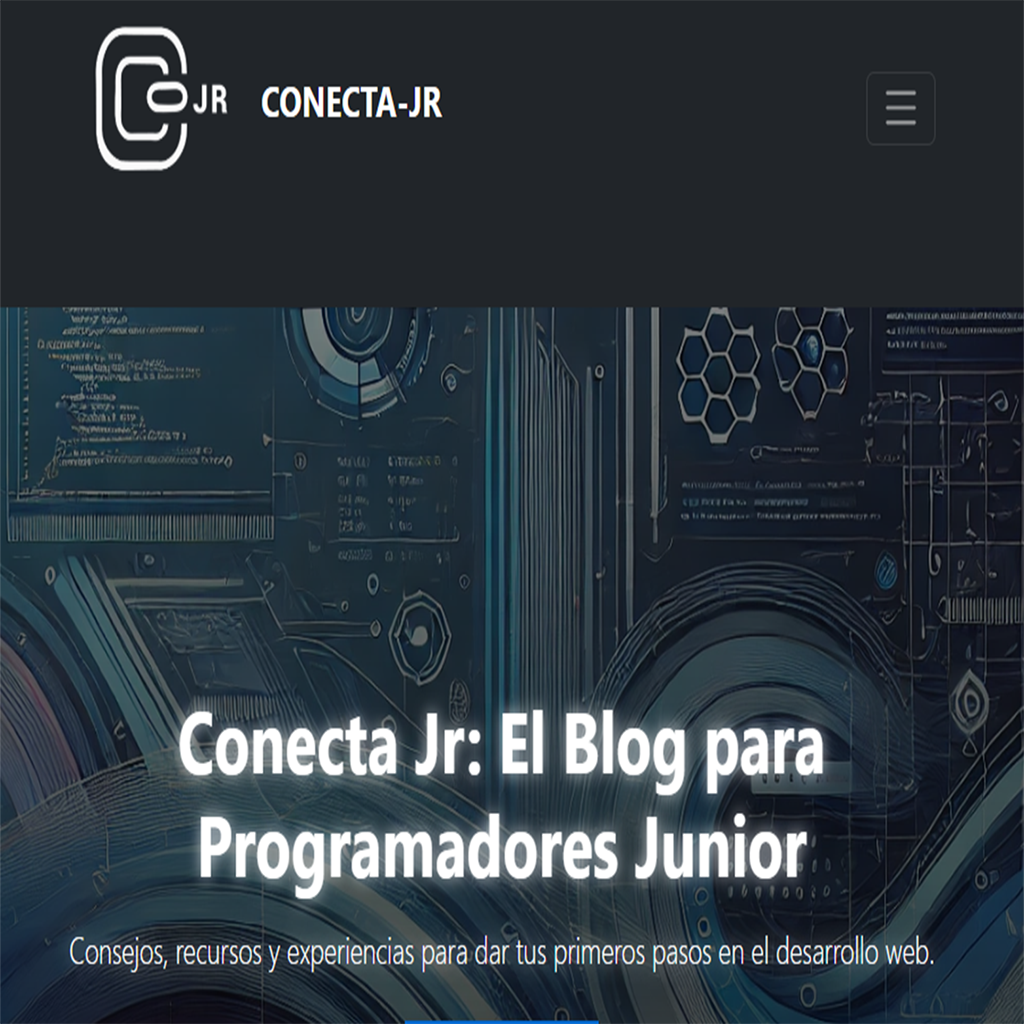
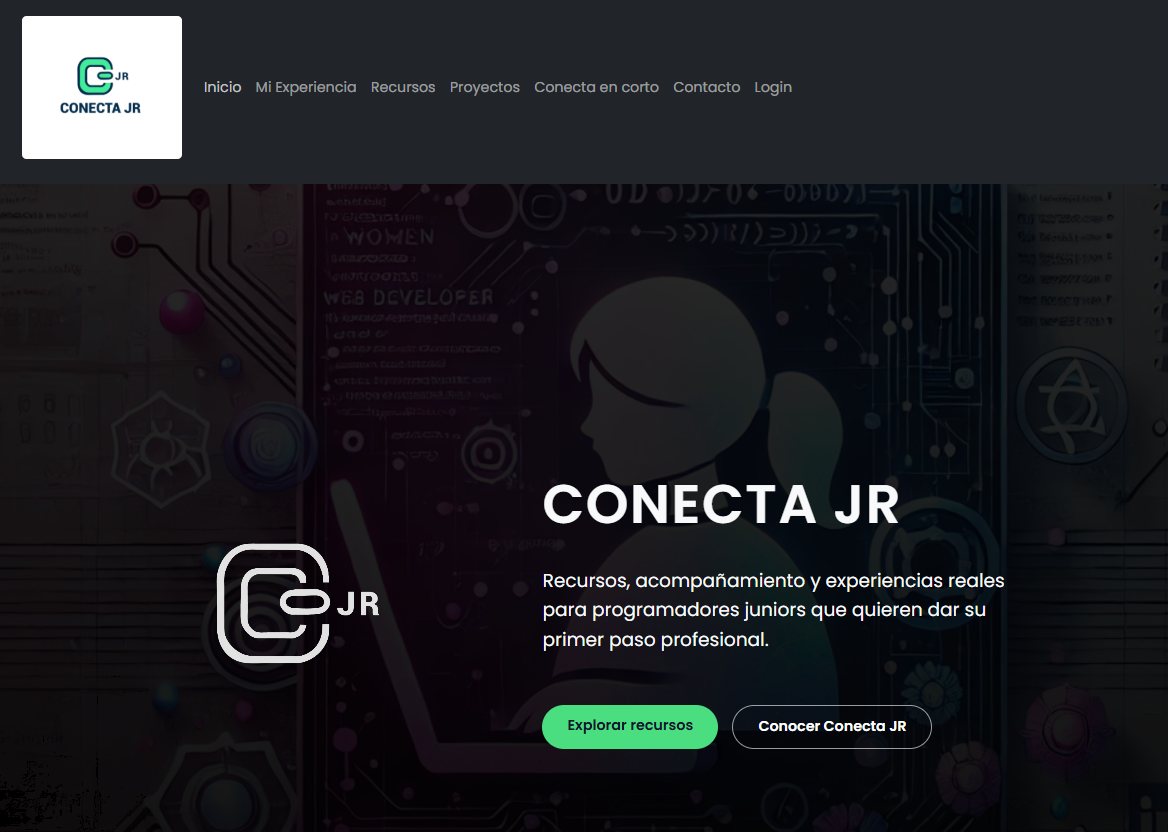
feat: hero section optimization

diff --git a/src/components/HeroBanner/HeroBanner.jsx b/src/components/HeroBanner/HeroBanner.jsx
@@ -1,78 +1,62 @@
-import React, { useState, useEffect, useRef } from "react";
-import { motion, animate } from "framer-motion";
+import React from "react";
+import { motion } from "framer-motion";
+import { Link } from "react-router-dom";
 import "../../Styles/styles.scss";
 import logo from "../../../public/images/logo-Conecta-jr-icono.png";
 
 const HeroBanner = () => {
-  const [position, setPosition] = useState({ x: 0, y: 0 });
-  const [isMoving, setIsMoving] = useState(true);
-  const containerRef = useRef(null);
-
-  useEffect(() => {
-    if (!isMoving) return;
-
-    const moveLogo = () => {
-      const container = containerRef.current;
-      if (!container) return;
-
-      const maxX = container.offsetWidth - 80; // 80px ancho del logo
-      const maxY = container.offsetHeight - 80;
-
-      const newX = Math.random() * maxX;
-      const newY = Math.random() * maxY;
-
-      setPosition({ x: newX, y: newY });
-    };
-
-    const interval = setInterval(moveLogo, 2000); // Cambia de posición cada 2s
-    return () => clearInterval(interval);
-  }, [isMoving]);
-
   return (
     <motion.section
-      className="hero-banner text-white text-center"
-      initial={{ opacity: 0, scale: 1.1 }}
-      animate={{ opacity: 1, scale: 1 }}
-      transition={{ duration: 1 }}
-      style={{ position: "relative", overflow: "hidden" }}
-      ref={containerRef}
+      className="hero-banner"
+      initial={{ opacity: 0 }}
+      animate={{ opacity: 1 }}
+      transition={{ duration: 0.8 }}
     >
-      <div className="overlay" />
-      <div className="container hero-content">
-        <motion.h1
-          className="display-4 fw-bold mb-3"
-          initial={{ opacity: 0, y: -50 }}
-          animate={{ opacity: 1, y: 0 }}
-          transition={{ duration: 0.8 }}
+      <div className="hero-content">
+        {/* LOGO IZQUIERDA */}
+        <motion.div
+          className="hero-logo"
+          initial={{ opacity: 0, x: -40 }}
+          animate={{ opacity: 1, x: 0 }}
+          transition={{ duration: 0.6 }}
         >
-          Bienvenidos a <span className="highlight">CONECTA JR</span>
-        </motion.h1>
+          <img src={logo} alt="Logo Conecta JR" />
+        </motion.div>
 
-        <motion.p
-          className="lead mb-4"
-          initial={{ opacity: 0, y: 40 }}
-          animate={{ opacity: 1, y: 0 }}
-          transition={{ duration: 0.8, delay: 0.2 }}
-        >
-          Consejos, recursos y experiencias para dar tus primeros pasos en el desarrollo web.
-        </motion.p>
+        {/* TEXTO DERECHA */}
+        <div className="hero-text">
+          <motion.h1
+            initial={{ opacity: 0, y: -20 }}
+            animate={{ opacity: 1, y: 0 }}
+            transition={{ duration: 0.6 }}
+          >
+            CONECTA JR
+          </motion.h1>
 
-        {/* aca el Logo que se mueve libremente */}
-        <motion.img
-          src={logo}
-          alt="Logo Conecta Jr"
-          className="animated-logo"
-          animate={position}
-          transition={{ type: "spring", stiffness: 50, damping: 20 }}
-          style={{
-            width: "80px",
-            position: "absolute",
-            top: 0,
-            left: 0,
-            cursor: "pointer",
-          }}
-          onClick={() => setIsMoving(!isMoving)}
-        />
+          <motion.p
+            initial={{ opacity: 0, y: 20 }}
+            animate={{ opacity: 1, y: 0 }}
+            transition={{ duration: 0.6, delay: 0.1 }}
+          >
+            Recursos, acompañamiento y experiencias reales para programadores
+            juniors que quieren dar su primer paso profesional.
+          </motion.p>
+
+          <motion.div
+            className="hero-cta"
+            initial={{ opacity: 0, y: 20 }}
+            animate={{ opacity: 1, y: 0 }}
+            transition={{ duration: 0.6, delay: 0.2 }}
+          >
+            <Link to="/consejos" className="primary">
+              Explorar recursos
+            </Link>
+
+            <Link to="/mi-experiencia" className="secondary">
+              Mi Experiencia
+            </Link>
+          </motion.div>
+        </div>
       </div>
     </motion.section>
   );

diff --git a/src/Styles/styles.scss b/src/Styles/styles.scss
@@ -83,25 +83,161 @@ main {
 }
 
 
-// ===========================
-// Hero Banner
-// ===========================
+/* =========================
+   HERO BANNER
+========================= */
 
 .hero-banner {
-  background: linear-gradient(to bottom, rgba(0, 0, 0, 0.5), rgba(0, 0, 0, 0.8)),
-              url('/images/banner.png') no-repeat center center;
+  background:
+    linear-gradient(
+      to bottom,
+      rgba(0, 0, 0, 0.6),
+      rgba(0, 0, 0, 0.85)
+    ),
+    url('/images/banner.png') no-repeat center center;
+
   background-size: cover;
+  background-blend-mode: multiply;
+  background-position: 70% center;
   min-height: 100vh;
+  padding: 6rem 3rem;
+
   display: flex;
   align-items: center;
   justify-content: center;
+
   text-align: center;
   color: $text-light;
+  position: relative;
+}
 
-  h1, p {
-    animation: glow 1.5s ease-in-out infinite;
+.hero-banner::after {
+  content: "";
+  position: absolute;
+  inset: 0;
+  background:  rgba(0, 0, 0, 0.6);
+  z-index: 1;
+}
+
+
+/* =========================
+   LOGO FIJO (marca)
+========================= */
+
+.hero-logo {
+   display: flex;
+  align-items: center;
+  justify-content: center;
+}
+
+.hero-logo img {
+  max-width: 260px; 
+  opacity: 0.9;     
+}
+
+/* =========================
+   CONTENIDO
+========================= */
+
+.hero-content {
+  max-width: 1200px;
+  width: 100%;
+
+  display: grid;
+  grid-template-columns: 420px 1fr;
+  gap: 4rem;
+  align-items: center;
+
+  position: relative;
+  z-index: 2;
+}
+
+.hero-text {
+  max-width: 560px;
+  display: flex;
+  flex-direction: column;
+  gap: 1.5rem;
+  text-align: left;
+}
+
+.hero-text h1 {
+  letter-spacing: 0.03em;
+  font-size: clamp(2.5rem, 5vw, 3.8rem);
+  font-weight: 800;
+}
+
+.hero-text p {
+  line-height: 1.6;
+  font-size: clamp(1.1rem, 2.5vw, 1.3rem);
+  opacity: 0.9;
+  max-width: 560px;
+}
+
+
+/* =========================
+   CTA
+========================= */
+
+.hero-cta {
+  display: flex;
+  gap: 1rem;
+  margin-top: 1rem;
+}
+
+.hero-cta a {
+ padding: 0.75rem 1.75rem;
+  border-radius: 999px;
+  font-weight: 600;
+  text-decoration: none;
+  transition: all 0.25s ease;
+}
+
+/* CTA principal */
+.hero-cta .primary {
+  background: #4ade80;
+  color: #0f172a;
+}
+
+.hero-cta .primary:hover {
+  transform: translateY(-2px);
+  box-shadow: 0 10px 25px rgba(66, 235, 153, 0.35);
+}
+
+/* CTA secundario */
+.hero-cta .secondary {
+  border: 1px solid rgba(255,255,255,0.6);
+  color: white;
+}
+
+.hero-cta .secondary:hover {
+   background: rgba(255,255,255,0.15);
+}
+
+/* =========================
+   RESPONSIVE
+========================= */
+
+@media (max-width: 768px) {
+  .hero-content {
+    grid-template-columns: 1fr;
+    text-align: center;
+  }
+
+  .hero-logo img {
+    max-width: 220px;
+    margin: 0 auto;
+  }
+
+  .hero-text {
+    align-items: center;
+  }
+
+  .hero-cta {
+    justify-content: center;
   }
 }
+
+
 
 // ===========================
 // Sistema de Cards

diff --git a/src/components/Nabvar/Navbar.jsx b/src/components/Nabvar/Navbar.jsx
@@ -20,7 +20,7 @@ function CustomNavbar() {
           <Nav className="me-auto">
             <Nav.Link as={Link} to="/">Inicio</Nav.Link>
             <Nav.Link as={Link} to="/mi-experiencia">Mi Experiencia</Nav.Link>
-            <Nav.Link as={Link} to="/consejos">Consejos</Nav.Link>
+            <Nav.Link as={Link} to="/consejos">Recursos</Nav.Link>
             <Nav.Link as={Link} to="/proyectos">Proyectos</Nav.Link>
             <Nav.Link as={Link} to="/conecta-en-corto">Conecta en corto</Nav.Link>
             <Nav.Link as={Link} to="/contacto">Contacto</Nav.Link>

diff --git a/src/Pages/MiExperiencia.jsx b/src/Pages/MiExperiencia.jsx
@@ -18,6 +18,7 @@ function MiExperiencia() {
             aplicaciones completas, escalables y bien estructuradas, aplicando
             buenas prácticas de la industria.
           </p>
+          <p>Creo en el aprendizaje acompañado, por eso creé CONECTA JR, un espacio que ayuda a desarrolladores junior con recursos, guía y experiencias reales para crecer en el mundo profesional.</p>
         </section>
 
         {/* EXPERIENCIA */}

diff --git a/src/Pages/Home.jsx b/src/Pages/Home.jsx
@@ -42,7 +42,7 @@ function Home() {
           <div className="col-lg-6 col-md-8">
             <div className="contact-card p-4 rounded-4 shadow-lg text-center">
               <h3 className="card-tittle mb-3">
-                Sumate a la comunidad CONECTA JR
+                Sumate a la comunidad 😀
               </h3>
 
               <p className="text-muted mb-4">

diff --git a/src/Pages/Consejos.jsx b/src/Pages/Consejos.jsx
@@ -6,7 +6,7 @@ function Consejos() {
   return (
     <>
       <Container className="py-5">
-        <h1 className="text-center mb-5">Consejos para Programadores Junior</h1>
+        <h1 className="text-center mb-5">Recursos para Programadores Junior</h1>
         
         {/* Sección de Consejos */}
         <Row>
